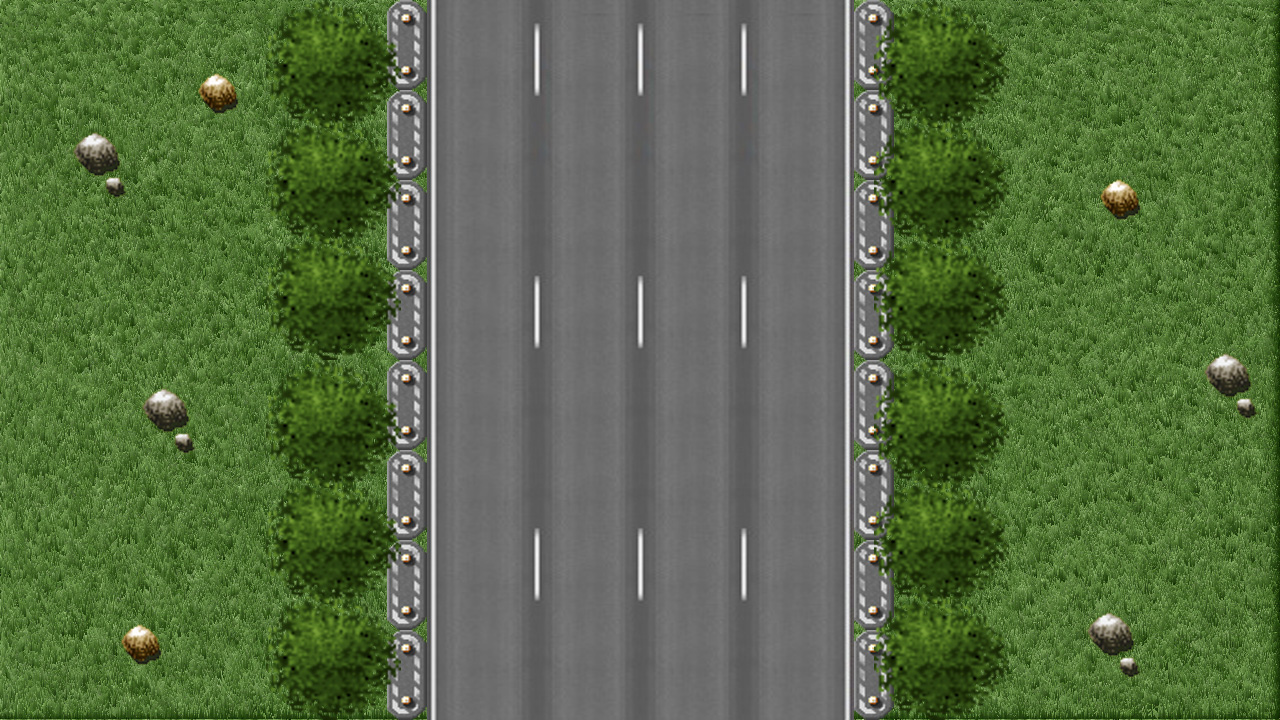
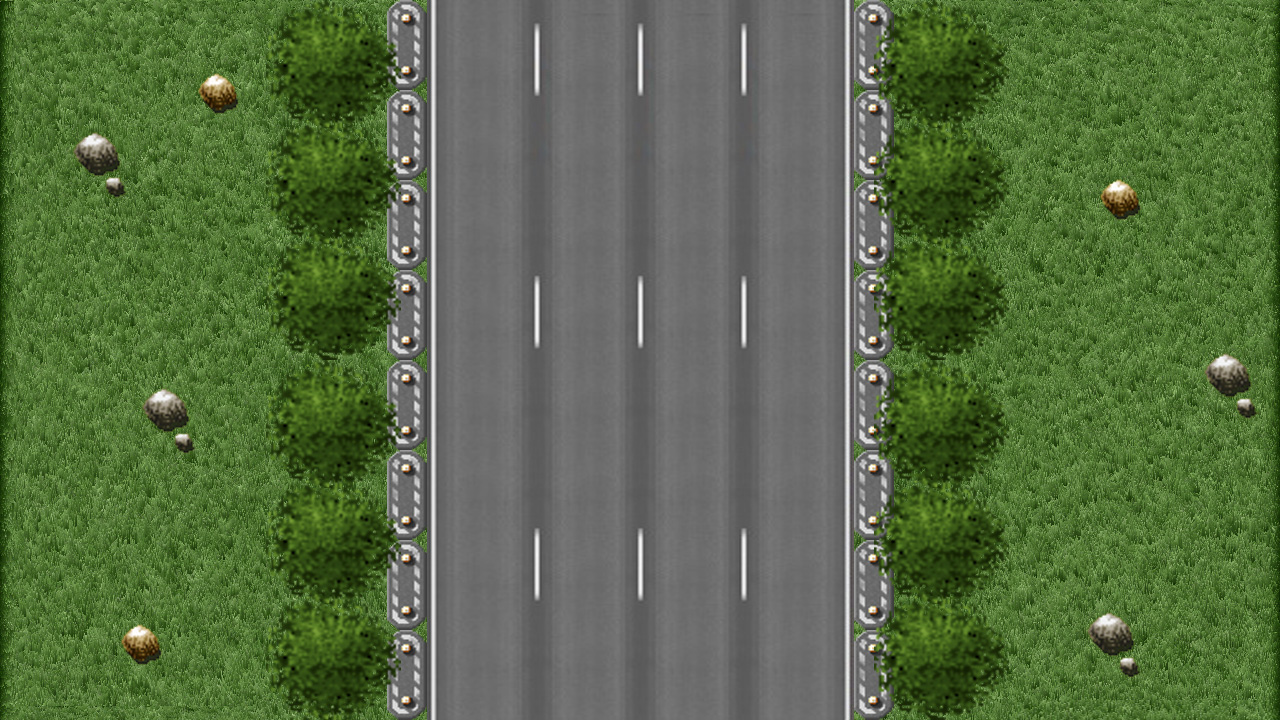
new game2

Changed region(s): [[0.0, 0.0, 0.3438, 1.0], [0.6875, 0.9778, 1.0, 1.0]]

diff --git a/src/main/java/start/NewGame.java b/src/main/java/start/NewGame.java
@@ -15,6 +15,8 @@ import javax.swing.*;
 import java.awt.event.ActionEvent;
 import java.awt.event.ActionListener;
 import java.io.IOException;
+import java.util.Random;
+
 /**
  * Created by 4 on 02.03.2016.
  */
@@ -22,22 +24,33 @@ public class NewGame implements ActionListener{
 
     final static int HEIGHT = 1280;
     final static int WIDTH = 680;
+
     final static Image BACKGROUND_IMAGE1 = new Image("/images/road1.jpg");
     final static Image BACKGROUND_IMAGE2 = new Image("/images/road2.jpg");
     final static Image BACKGROUND_IMAGE3 = new Image("/images/road3.jpg");
 
+    private ImageView background1;
+    private ImageView background2;
+    private ImageView background3;
+
+    private Scene sceneNewGame;
+    private Group root;
+
+    double y = 1;
+
+    Timer timerNewGame;
 
     public void showScene(){
-        Timer timerNewGame = new Timer(20, this);
+        timerNewGame = new Timer(100, this);
+        timerNewGame.start();
 
-        ImageView background1 = new ImageView(BACKGROUND_IMAGE1);
-        ImageView background2 = new ImageView(BACKGROUND_IMAGE2);
-        ImageView background3 = new ImageView(BACKGROUND_IMAGE3);
-        Group root = new Group(background1);
-        Scene sceneNewGame = new Scene(root, HEIGHT, WIDTH);
+        background1 = new ImageView(BACKGROUND_IMAGE1);
+        background2 = new ImageView(BACKGROUND_IMAGE2);
+        background3 = new ImageView(BACKGROUND_IMAGE3);
+        root = new Group(background1);
+        sceneNewGame = new Scene(root, HEIGHT, WIDTH);
         MainApp.stage.setTitle("BLOWN");
         MainApp.stage.setScene(sceneNewGame);
-
 
         sceneNewGame.setOnKeyPressed(new EventHandler<KeyEvent>() {
             public void handle(KeyEvent event) {
@@ -52,12 +65,35 @@ public class NewGame implements ActionListener{
                     scene.getStylesheets().add("/styles/main.css");
                     MainApp.stage.setTitle("BLOWN");
                     MainApp.stage.setScene(scene);
+                    timerNewGame.stop();
                 }
             }
         });
     }
 
     public void actionPerformed(ActionEvent e) {
+        if(root.getLayoutY() == 680){
+            root.setClip(background2);
+//            Random r = new Random();
+//            int image = r.nextInt(3);
+//            if(image == 1){
+//
+//                root.setClip(background1);
+//                root.setLayoutY(y+HEIGHT);
+//            }else{
+//                if(image == 2){
+//                    root.setClip(background2);
+//                    root.setLayoutY(y+HEIGHT);
+//                }else{
+//                    root.setClip(background3);
+//                    root.setLayoutY(y+HEIGHT);
+//                }
+//            }
+        }
+
+        root.setLayoutY(y);
+        y+=5;
+        System.out.println(root.getLayoutY());
 
     }
 }
